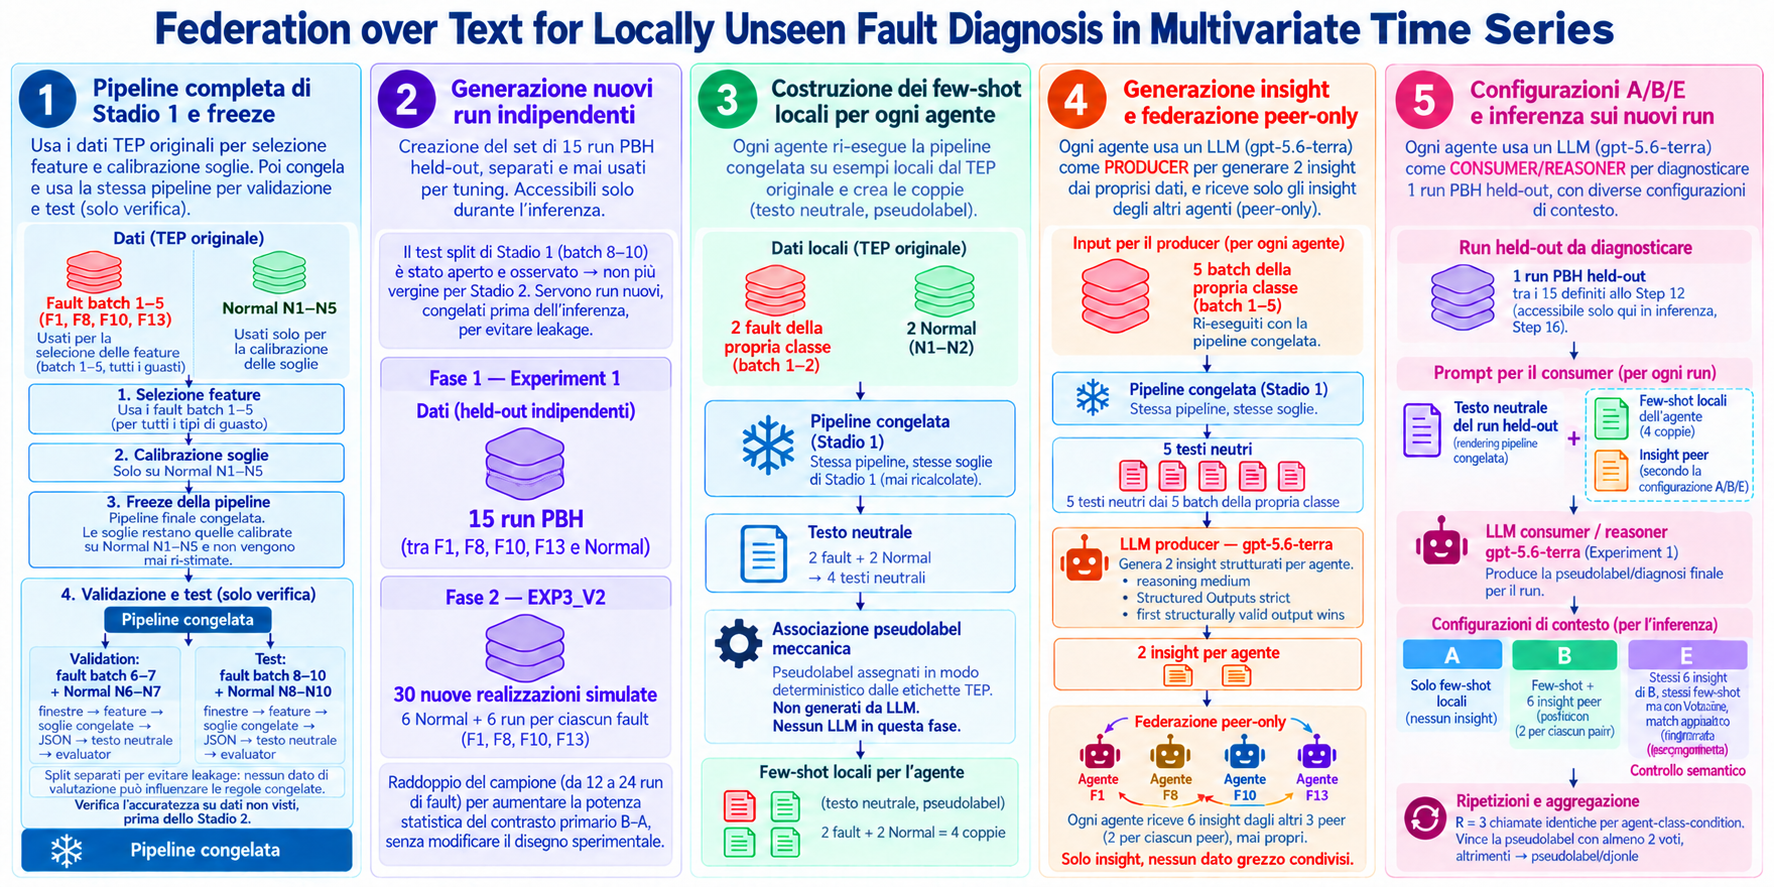
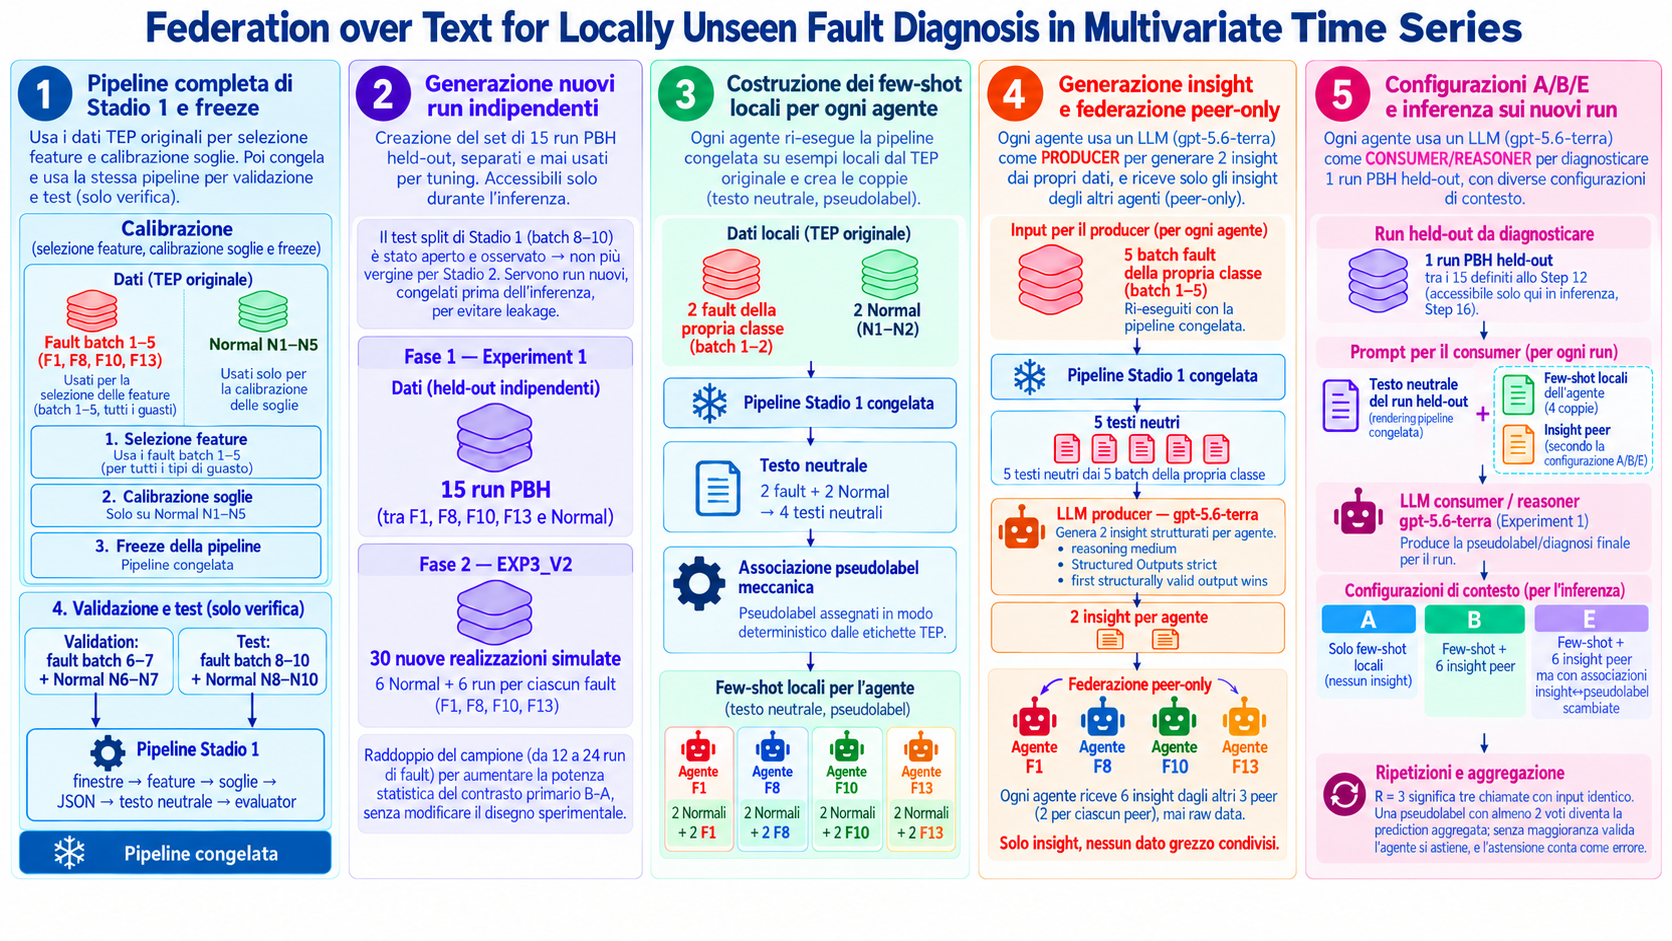
Updated png overview

diff --git a/docs/fot_walkthrough.html b/docs/fot_walkthrough.html
@@ -1096,22 +1096,6 @@ code, .mono { font-family: var(--font-mono); font-size: 0.88em; }
     <p style="margin:0 0 12px;font-size:0.88rem;color:var(--text-muted)">Stadio 1 è <strong>completamente deterministico</strong>: nessun LLM, nessuna scelta stocastica. Dati gli stessi segnali e la stessa baseline congelata, produce sempre lo stesso testo neutrale. Questo componente &mdash; la pipeline completa da segnali grezzi a testo neutrale &mdash; è il <strong>verbalizzatore V2</strong>: un renderer a template, senza parametri appresi, con calibrazione statistica conformal. Il testo che produce è il <strong>ponte</strong> verso Stadio 2: sarà l'unico input numerico che gli agenti condivideranno.</p>
   </div>
 
-  <div class="card" style="border-left:3px solid var(--accent-b)">
-    <div class="card-label">Passo finale — Generazione dei run indipendenti per Stadio 2</div>
-    <p style="margin:0 0 10px;font-size:0.88rem;color:var(--text-muted)">
-      I batch di test (8–10) sono già stati osservati dalla pipeline Stadio 1 durante lo sviluppo. Per la valutazione in Stadio 2 servono dati <strong>completamente vergini</strong>. Si generano quindi <strong>15 nuove realizzazioni indipendenti</strong> dal simulatore TEP:
-    </p>
-    <div style="display:flex;gap:8px;flex-wrap:wrap;margin-bottom:10px">
-      <span style="display:inline-block;padding:5px 10px;border-radius:4px;background:var(--accent-a-light);font-size:0.82rem;color:var(--accent-a);font-weight:500">3 × Normal</span>
-      <span style="display:inline-block;padding:5px 10px;border-radius:4px;background:var(--threshold-light);font-size:0.82rem;color:var(--threshold);font-weight:500">3 × F1</span>
-      <span style="display:inline-block;padding:5px 10px;border-radius:4px;background:var(--threshold-light);font-size:0.82rem;color:var(--threshold);font-weight:500">3 × F8</span>
-      <span style="display:inline-block;padding:5px 10px;border-radius:4px;background:var(--threshold-light);font-size:0.82rem;color:var(--threshold);font-weight:500">3 × F10</span>
-      <span style="display:inline-block;padding:5px 10px;border-radius:4px;background:var(--threshold-light);font-size:0.82rem;color:var(--threshold);font-weight:500">3 × F13</span>
-    </div>
-    <p style="margin:0;font-size:0.82rem;color:var(--text-caption)">
-      Ogni run viene congelato (hash SHA-256, manifest) <em>prima</em> della verbalizzazione e dell'inferenza. La pipeline Stadio 1 (soglie, feature, testo neutrale) viene applicata a questi run esattamente come ai precedenti, senza alcuna modifica. Nella Fase 2 il protocollo è stato replicato con il doppio dei run: 6 per classe fault + 6 Normal = <strong>30 run</strong>.
-    </p>
-  </div>
 </div>
 
 
